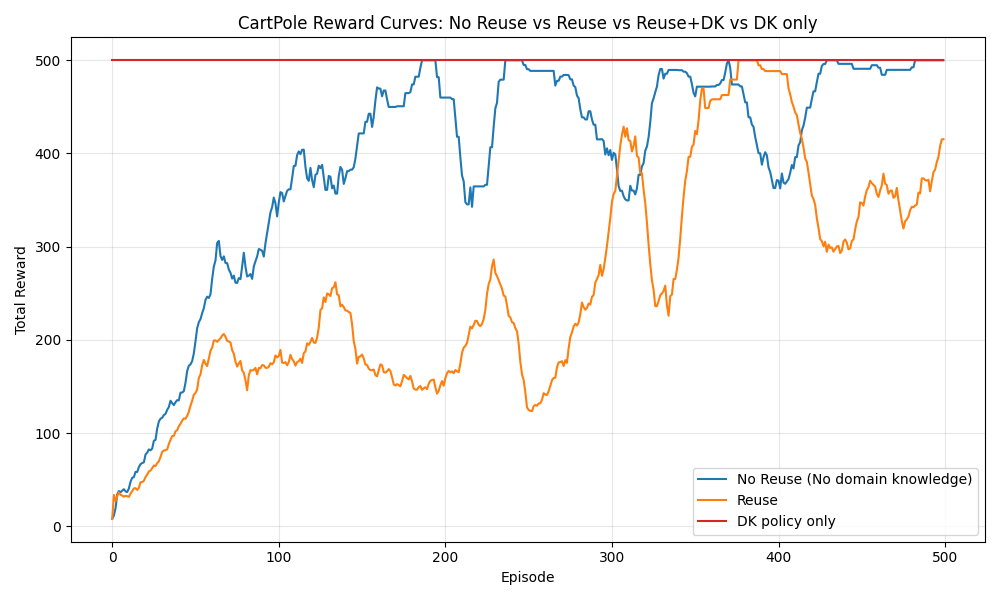
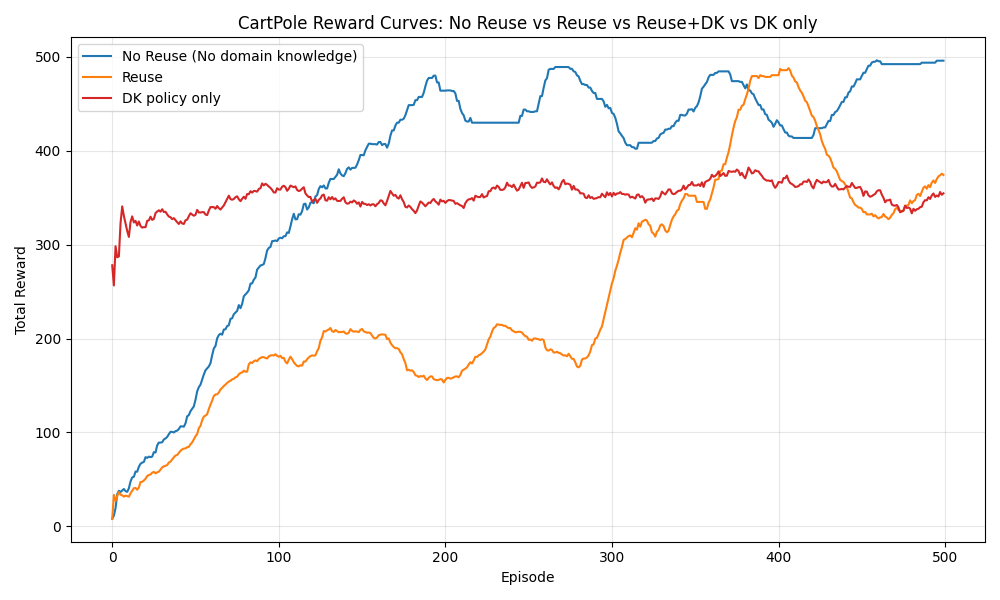
saving reuse probabilities across episodes

diff --git a/train.py b/train.py
@@ -27,6 +27,33 @@ def moving_average(values, window: int = 20):
         out.append(sum(values[start:idx + 1]) / (idx - start + 1))
     return out
 
+def plot_subpolicy_probabilities(probability_history,
+                                 labels,
+                                 output_path: str):
+    """
+    Plot sub-policy mixture probabilities across episodes.
+    """
+    if len(probability_history) == 0:
+        print('No sub-policy probability history to plot.')
+        return
+
+    probs = np.asarray(probability_history)
+    episodes = np.arange(1, probs.shape[0] + 1)
+
+    plt.figure(figsize=(11, 6))
+    for idx, label in enumerate(labels):
+        plt.plot(episodes, probs[:, idx], label=label)
+
+    plt.xlabel('Episode')
+    plt.ylabel('Mixture Probability')
+    plt.title('Sub-policy Usage Probabilities Across Episodes')
+    plt.ylim(0.0, 1.0)
+    plt.grid(alpha=0.3)
+    plt.legend(loc='upper right', ncol=2)
+    plt.tight_layout()
+    plt.savefig(output_path)
+    plt.close()
+    print(f'Saved sub-policy probability plot to {output_path}')
 
 def monte_carlo_action_probs(policy: PolicyNetwork, state: torch.Tensor, num_samples: int) -> torch.Tensor:
     """
@@ -44,7 +71,7 @@ def domain_knowledge_action_probs(state: torch.Tensor) -> torch.Tensor:
     """
     # State order for CartPole-v1: [cart_pos, cart_vel, pole_angle, pole_ang_vel]
     cart_pos, cart_vel, pole_angle, pole_ang_vel = state
-    score = 0.5 * cart_pos + 1.0 * cart_vel + 8.0 * pole_angle + 1.5 * pole_ang_vel
+    score = 0.2 * cart_pos + 0.2 * cart_vel + 0.4 * pole_angle + 0.5 * pole_ang_vel
     probs = torch.zeros(2, dtype=state.dtype, device=state.device)
     # Gym CartPole action mapping: 0=left, 1=right
     probs[1 if score > 0 else 0] = 1.0
@@ -119,7 +146,8 @@ def update_policy_bank(bank,
                        device: torch.device,
                        max_bank_size: int,
                        score: float,
-                       diversity_threshold: float = 1e-3):
+                       diversity_threshold: float = 1e-3,
+                       track_subpolicy_probs: bool = False):
     """
     Store a frozen copy of the current policy into the reusable policy bank.
 
@@ -194,6 +222,9 @@ def train(policy_reuse: bool = False,
 
     Returns:
         reward_sums: list[float], per-episode total rewards.
+        subpolicy_prob_history: np.ndarray with shape
+            (episodes, max_policy_bank_size + 1 + int(use_domain_knowledge))
+            if policy_reuse=True, else None.
     """
     set_seed(seed)
     device = torch.device('cuda' if torch.cuda.is_available() else 'cpu')
@@ -227,6 +258,8 @@ def train(policy_reuse: bool = False,
         reuse_optimizer = Adam([reuse_logits], lr=lr)
 
     reward_sums = []
+    subpolicy_prob_history = []
+    total_reuse_slots = max_policy_bank_size + 1 + int(use_domain_knowledge)
 
     for episode in range(1, episodes + 1):
         # Reset env at start of each episode (first episode already reset above)
@@ -237,6 +270,13 @@ def train(policy_reuse: bool = False,
         policy.esn.reset_state()
         for _, old_policy in policy_bank:
             old_policy.esn.reset_state()
+
+        if policy_reuse:
+            active_count = len(policy_bank) + 1 + int(use_domain_knowledge)
+            active_probs = torch.softmax(reuse_logits[:active_count], dim=0)
+            padded_probs = torch.zeros(total_reuse_slots, device=device)
+            padded_probs[:active_count] = active_probs
+            subpolicy_prob_history.append(padded_probs.detach().cpu().numpy())
 
         state = torch.tensor(obs, dtype=torch.float32).to(device)
         rewards = []
@@ -348,51 +388,57 @@ def train(policy_reuse: bool = False,
             print(f'Episode {episode}, Total Reward: {reward_sum}')
 
     env.close()
-    return reward_sums
+    if policy_reuse:
+        return reward_sums, np.asarray(subpolicy_prob_history)
+    return reward_sums, None
 
 
 if __name__ == '__main__':
-    max_policy_bank_size = 10
+    max_policy_bank_size = 9
 
     data = np.load('results/reward_sums.npz')
 
-    # reward_sums_reuse = train(
+    # reward_sums_reuse, _ = train(
     #     policy_reuse=True,
     #     use_domain_knowledge=False,
     #     max_policy_bank_size=max_policy_bank_size,
     # )
     reward_sums_reuse = data['reuse']
 
-    # reward_sums_no_reuse = train(
+    # reward_sums_no_reuse, _ = train(
     #     policy_reuse=False,
     #     use_domain_knowledge=False,
     #     max_policy_bank_size=max_policy_bank_size,
     # )
     reward_sums_no_reuse = data['no_reuse']
 
-    reward_sums_dk_only = evaluate_domain_knowledge_policy()
+    # reward_sums_dk_only = evaluate_domain_knowledge_policy()
+    reward_sums_dk_only = data['dk_only']
 
-    # reward_sums_reuse_dk = train(
-    #     policy_reuse=True,
-    #     use_domain_knowledge=True,
-    #     max_policy_bank_size=max_policy_bank_size,
-    # )
+    reward_sums_reuse_dk, subpolicy_prob_history = train(
+        policy_reuse=True,
+        use_domain_knowledge=True,
+        max_policy_bank_size=max_policy_bank_size,
+    )
 
-    window = 20
+    window = 50
     smoothed_no_reuse = moving_average(reward_sums_no_reuse, window=window)
     smoothed_reuse = moving_average(reward_sums_reuse, window=window)
-    # smoothed_reuse_dk = moving_average(reward_sums_reuse_dk, window=window)
+    smoothed_reuse_dk = moving_average(reward_sums_reuse_dk, window=window)
     smoothed_dk_only = moving_average(reward_sums_dk_only, window=window)
 
     np.savez('results/reward_sums.npz',
              no_reuse=reward_sums_no_reuse,
              reuse=reward_sums_reuse,
-            #  reuse_dk=reward_sums_reuse_dk,
+             reuse_dk=reward_sums_reuse_dk,
              dk_only=reward_sums_dk_only,
              smoothed_no_reuse=smoothed_no_reuse,
              smoothed_reuse=smoothed_reuse,
-            #  smoothed_reuse_dk=smoothed_reuse_dk,
-             smoothed_dk_only=smoothed_dk_only)
+             smoothed_reuse_dk=smoothed_reuse_dk,
+             smoothed_dk_only=smoothed_dk_only,
+             smoothed_reuse_dk=smoothed_reuse_dk,
+             subpolicy_prob_history=subpolicy_prob_history
+             )
     print(f'Saved raw and smoothed reward sums to results/reward_sums.npz')
 
     plt.figure(figsize=(10, 6))
@@ -400,7 +446,7 @@ if __name__ == '__main__':
     plt.plot(smoothed_no_reuse, label=f'No Reuse (No domain knowledge)', color='tab:blue')
     # plt.plot(reward_sums_reuse, alpha=0.25, label='Reuse (raw)', color='tab:orange')
     plt.plot(smoothed_reuse, label=f'Reuse', color='tab:orange')
-    # plt.plot(smoothed_reuse_dk, label='Reuse + DK policy', color='tab:green')
+    plt.plot(smoothed_reuse_dk, label='Reuse + DK policy', color='tab:green')
     plt.plot(smoothed_dk_only, label='DK policy only', color='tab:red')
     plt.xlabel('Episode')
     plt.ylabel('Total Reward')
@@ -411,3 +457,10 @@ if __name__ == '__main__':
     plt.savefig('results/reward_comparison.png')
     plt.close()
     print(f'Saved reward plot to reward_comparison.png')
+
+    subpolicy_labels = [f'Old policy {idx + 1}' for idx in range(max_policy_bank_size)]
+    subpolicy_labels += ['New policy', 'Domain-knowledge policy']
+    plot_subpolicy_probabilities(subpolicy_prob_history,
+                                 subpolicy_labels,
+                                 'results/subpolicy_probabilities.png')
+    
